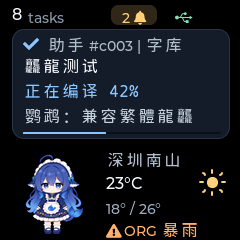
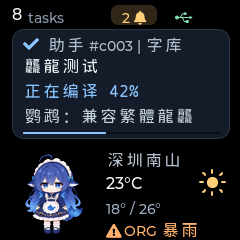
Doc: Update showcase renders in README for font and layout changes
1. Update README.md and README_zh.md showcase tables with current Maple Mono and header layout renders.
2. Regenerate companion animation and font preview assets with the latest desktop test output.
3. Add English notification and composite weather showcase assets under docs/images.

Changed region(s): [[0.0875, 0.6417, 0.35, 0.9917]]

diff --git a/README.md b/README.md
@@ -54,11 +54,11 @@ flowchart LR
 
 | Task Overview Carousel | Notification Popup |
 | :---: | :---: |
-| ![Task Overview](docs/images/message-polish-overview.png) | ![Notification Popup](docs/images/message-polish-notification.png) |
+| ![Task Overview](docs/images/maple-overview.png) | ![Notification Popup](docs/images/maple-notification.png) |
 
 | Weather & Alert Display | Companion Animation |
 | :---: | :---: |
-| ![Weather Overview](docs/images/weather-overview.png) | ![Companion Animation](docs/images/companion-animation.gif) |
+| ![Weather Overview](docs/images/showcase-weather.png) | ![Companion Animation](docs/images/companion-animation.gif) |
 
 ---
 

diff --git a/README_zh.md b/README_zh.md
@@ -54,11 +54,11 @@ flowchart LR
 
 | 任务概览轮播 | 弹窗通知 |
 | :---: | :---: |
-| ![任务概览](docs/images/message-polish-overview.png) | ![弹窗通知](docs/images/message-polish-notification.png) |
+| ![任务概览](docs/images/maple-chinese-overview.png) | ![弹窗通知](docs/images/maple-chinese-notification.png) |
 
 | 天气与预警显示 | 桌宠动画效果 |
 | :---: | :---: |
-| ![天气概览](docs/images/weather-overview.png) | ![桌宠动画](docs/images/companion-animation.gif) |
+| ![天气概览](docs/images/showcase-weather.png) | ![桌宠动画](docs/images/companion-animation.gif) |
 
 ---
 
